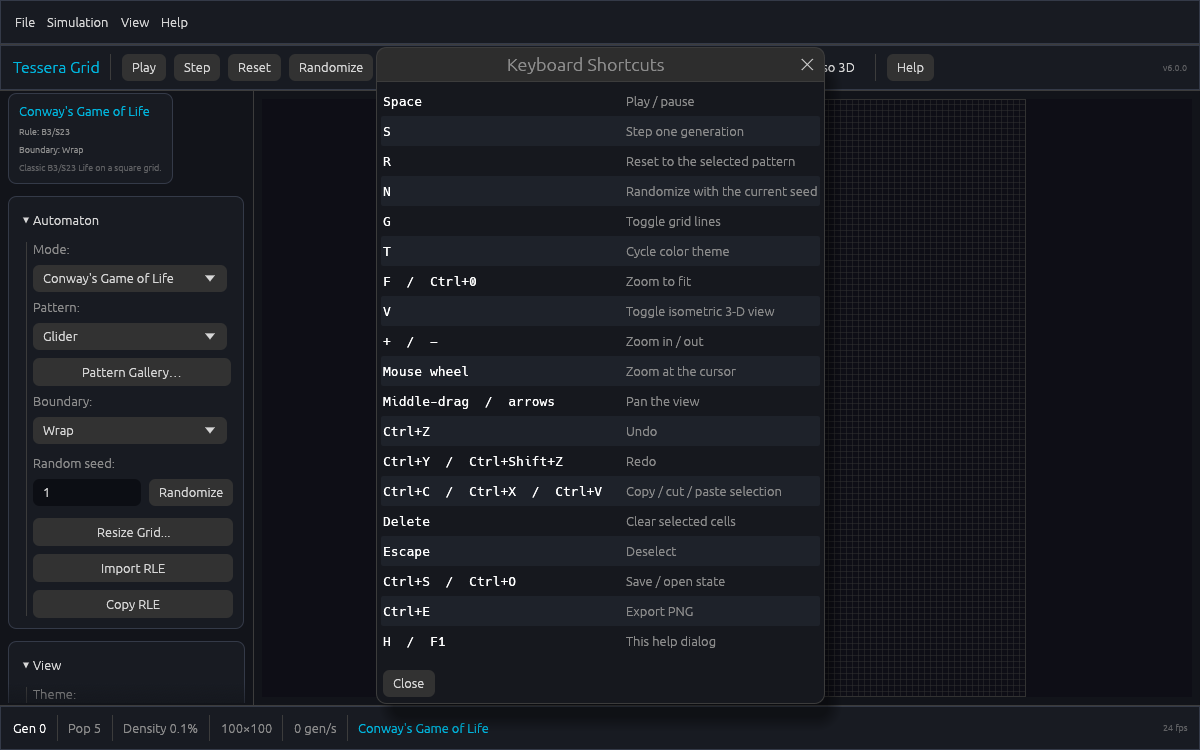
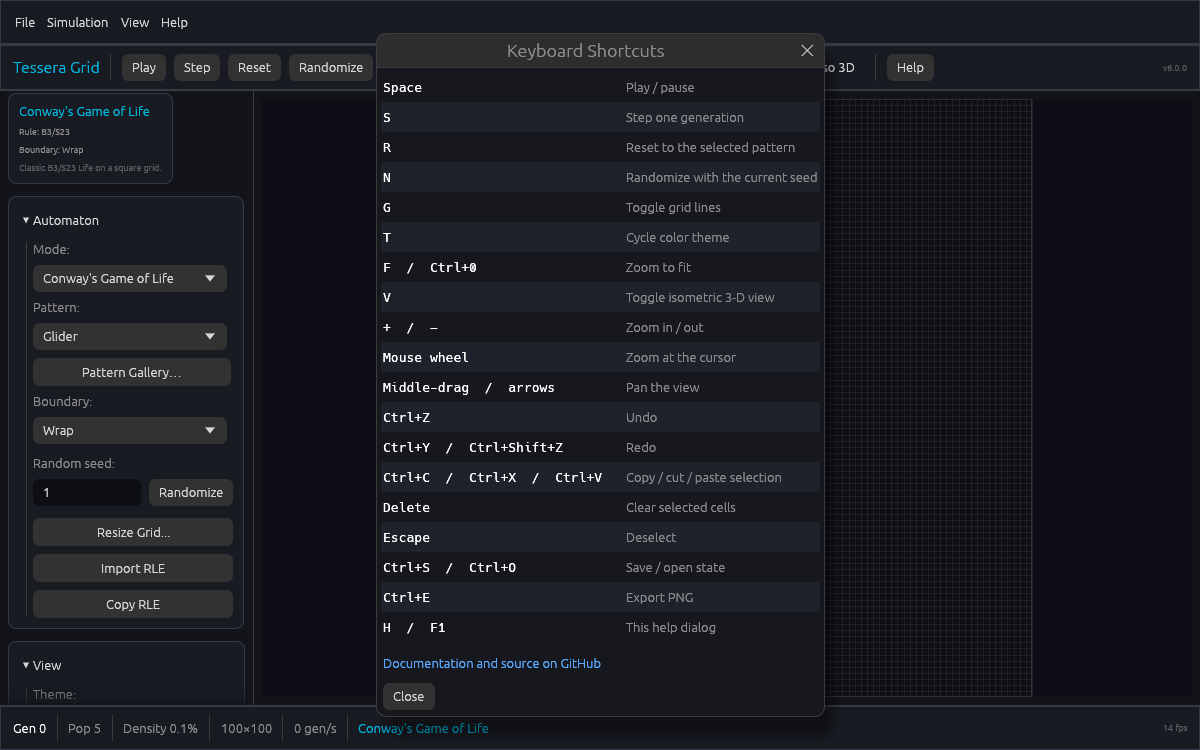
docs: refresh guides, code comments and in-app help
- add module-level docs across the engine, UI and theme modules; document the
  theme API and remove two unused helper methods
- README: theme usage, LifeGrid migration guide, `--help` pointer, updated
  project layout/test map and refreshed shortcuts screenshot
- CONTRIBUTING: headless run example, adding a color theme, config migration
  rules, and guidance for keeping README/in-app help/CLI help in sync
- About links to the repository and notes the former name; the help dialog
  links to the docs; `tessera --help` lists examples
- annotate run-simulation.sh, rust-toolchain.toml and .gitignore

diff --git a/tessera-grid-rs/src/theme.rs b/tessera-grid-rs/src/theme.rs
@@ -1,4 +1,9 @@
 //! Color themes for the simulator UI and canvas.
+//!
+//! A theme defines the canvas palette (background plus states 1–8), grid and
+//! outline colours, panel/card/bar colours, the success colour, and whether
+//! egui starts from a dark or light base. [`Theme::accent`] adapts the
+//! per-mode accent so titles and charts stay readable on light backgrounds.
 
 use egui::Color32;
 
@@ -17,6 +22,7 @@ pub enum Theme {
 }
 
 impl Theme {
+    /// Every theme, in the order `T` cycles through them.
     pub fn all() -> &'static [Theme] {
         &[
             Self::Dark,
@@ -30,6 +36,7 @@ impl Theme {
         ]
     }
 
+    /// Human-readable name used in menus, config files and release docs.
     pub fn name(self) -> &'static str {
         match self {
             Self::Dark => "Dark",
@@ -58,10 +65,12 @@ impl Theme {
         }
     }
 
+    /// Whether egui should start from its dark base style.
     pub fn is_dark(self) -> bool {
         !matches!(self, Self::Light | Self::Paper)
     }
 
+    /// The next theme in cycle order (wraps around).
     pub fn next(self) -> Self {
         let all = Self::all();
         let index = all.iter().position(|&theme| theme == self).unwrap_or(0);
@@ -78,6 +87,7 @@ impl Theme {
         }
     }
 
+    /// Concrete colors for this theme.
     pub fn colors(self) -> ThemeColors {
         match self {
             Self::Dark => ThemeColors {
@@ -254,14 +264,23 @@ impl Theme {
 
 /// Concrete colors for one theme.
 pub struct ThemeColors {
+    /// Window background (`Visuals::window_fill`).
     pub window: Color32,
+    /// Side-panel background.
     pub panel: Color32,
+    /// Toolbar, status bar and card background.
     pub card: Color32,
+    /// Borders and separators.
     pub stroke: Color32,
+    /// Subtle widget backgrounds.
     pub faint: Color32,
+    /// Text-edit and slider tracks.
     pub extreme: Color32,
+    /// Canvas grid lines and border.
     pub grid: Color32,
+    /// Transient success/status text.
     pub ok: Color32,
+    /// Canvas palette: index 0 is the background, 1–8 are cell states.
     cells: [Color32; 9],
 }
 

diff --git a/tessera-grid-rs/src/app/dialogs.rs b/tessera-grid-rs/src/app/dialogs.rs
@@ -1,3 +1,5 @@
+//! Floating dialogs: shortcuts, pattern gallery, run-N, resize and about.
+
 use super::*;
 
 /// Draw a 36×36 preview of a Conway pattern (or a placeholder).
@@ -49,6 +51,11 @@ impl TesseraGridApp {
                 ui.label(format!("Version {}", env!("CARGO_PKG_VERSION")));
                 ui.label("A fast, native cellular-automaton simulator built with Rust and egui.");
                 ui.label("MIT licensed.");
+                ui.label(egui::RichText::new("Formerly LifeGrid").small().weak());
+                ui.hyperlink_to(
+                    "github.com/James-HoneyBadger/TesseraGrid",
+                    "https://github.com/James-HoneyBadger/TesseraGrid",
+                );
                 ui.separator();
                 ui.label(format!(
                     "{} modes · {}×{} grid · rule {}",
@@ -167,6 +174,11 @@ impl TesseraGridApp {
                         }
                     });
                 ui.add_space(8.0);
+                ui.hyperlink_to(
+                    "Documentation and source on GitHub",
+                    "https://github.com/James-HoneyBadger/TesseraGrid",
+                );
+                ui.add_space(4.0);
                 if ui.button("Close").clicked() {
                     self.show_help = false;
                 }

diff --git a/tessera-grid-rs/src/cli.rs b/tessera-grid-rs/src/cli.rs
@@ -17,7 +17,12 @@ const DEFAULT_MODE: &str = "Conway's Game of Life";
 
 /// Tessera Grid – a cellular-automaton simulator (GUI by default, headless on demand).
 #[derive(Parser, Debug)]
-#[command(name = "tessera", version, about, long_about = None)]
+#[command(
+    name = "tessera",
+    version,
+    long_about = None,
+    after_help = "Run without flags to open the GUI.\n\nExamples:\n  tessera --headless --steps 100 --png out.png\n  tessera --rule B36/S23 --randomize --seed 42 --gif out.gif\n  tessera --list-modes"
+)]
 pub struct Cli {
     /// Run without opening a window.
     #[arg(long)]

diff --git a/tessera-grid-rs/src/automata/lifelike.rs b/tessera-grid-rs/src/automata/lifelike.rs
@@ -22,12 +22,6 @@ impl LifeLike {
         }
     }
 
-    #[allow(dead_code)]
-    pub fn set_rules(&mut self, birth: Vec<u8>, survival: Vec<u8>) {
-        self.birth = birth;
-        self.survival = survival;
-    }
-
     /// Parse a "B3/S23" style string into (birth, survival).
     pub fn parse_bs(rule: &str) -> (Vec<u8>, Vec<u8>) {
         let rule = rule.to_uppercase();

diff --git a/tessera-grid-rs/src/automata/generations.rs b/tessera-grid-rs/src/automata/generations.rs
@@ -25,13 +25,6 @@ impl Generations {
             n_states: 8,
         }
     }
-
-    #[allow(dead_code)]
-    pub fn set_rules(&mut self, birth: Vec<u8>, survival: Vec<u8>, n_states: u8) {
-        self.birth = birth;
-        self.survival = survival;
-        self.n_states = n_states.max(3);
-    }
 }
 
 impl Automaton for Generations {

diff --git a/tessera-grid-rs/src/app/mod.rs b/tessera-grid-rs/src/app/mod.rs
@@ -1,3 +1,8 @@
+//! egui application shell: state, helpers and panel composition.
+//!
+//! Rendering lives in the child modules; all simulation work is delegated to
+//! [`crate::sim::Simulation`] so the GUI and CLI share one engine.
+
 mod canvas;
 mod dialogs;
 mod panels;

diff --git a/tessera-grid-rs/src/main.rs b/tessera-grid-rs/src/main.rs
@@ -1,3 +1,8 @@
+//! Tessera Grid — a cellular-automaton simulator built with egui.
+//!
+//! Launching without arguments opens the GUI; step/export flags switch to the
+//! headless CLI implemented in [`cli`].
+
 mod app;
 mod automata;
 mod cli;

diff --git a/tessera-grid-rs/src/core/boundary.rs b/tessera-grid-rs/src/core/boundary.rs
@@ -1,3 +1,5 @@
+//! Edge handling for neighbour lookups.
+
 /// Available boundary conditions for cellular automata.
 #[derive(Clone, Copy, PartialEq, Eq, Debug, Default, serde::Serialize, serde::Deserialize)]
 pub enum BoundaryMode {

diff --git a/tessera-grid-rs/src/patterns.rs b/tessera-grid-rs/src/patterns.rs
@@ -1,3 +1,5 @@
+//! Built-in Conway patterns used by the loader and the pattern gallery.
+
 /// A named set of (dx, dy) offsets centred at the grid midpoint.
 pub struct PatternDef {
     pub name: &'static str,

diff --git a/tessera-grid-rs/src/app/canvas.rs b/tessera-grid-rs/src/app/canvas.rs
@@ -1,3 +1,5 @@
+//! 2-D and isometric rendering, zoom/pan, painting and selection.
+
 use super::*;
 
 /// Cells along a Bresenham line, used to avoid gaps during fast drags.

diff --git a/tessera-grid-rs/src/export.rs b/tessera-grid-rs/src/export.rs
@@ -1,3 +1,5 @@
+//! PNG snapshot and animated GIF rendering.
+
 use image::codecs::gif::{GifEncoder, Repeat};
 use image::{Delay, Frame, ImageBuffer, Rgb, Rgba, RgbaImage};
 

diff --git a/tessera-grid-rs/src/core/undo.rs b/tessera-grid-rs/src/core/undo.rs
@@ -1,3 +1,5 @@
+//! Snapshot-based undo/redo history.
+
 use std::collections::VecDeque;
 
 /// A grid snapshot together with the generation it belongs to.
